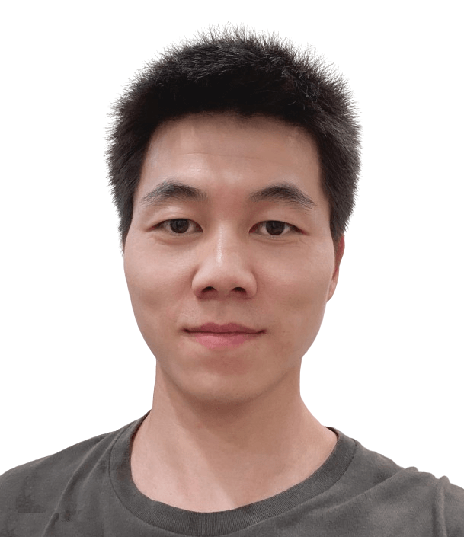
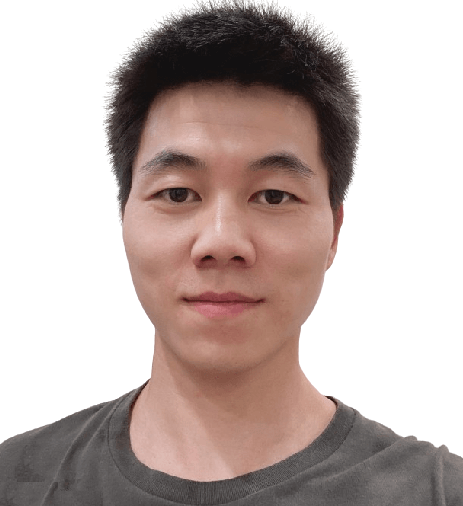
hiring students

diff --git a/index.html b/index.html
@@ -30,21 +30,49 @@
 </header>
 
 
-<div  style="height:200px;">
-<p>
+
+
+
+ <!-- style="height:300px;" -->
+<div style="height:350px;"> 
+<!-- <p> -->
+<img src="chonyang2.png" alt="me"  hspace="40" vspace="0" width="140" align="left">  
+<font size="5">   Chongyang Tao (陶重阳)</font>   <br>
+Pre-tenure Associate Professor <br>
+School of Computer Science and Engineering <br>
+Beihang University <br>
+Email: chongyang@buaa.edu.cn <br>
+<a href="https://scholar.google.com/citations?user=x_cOKuwAAAAJ&hl=en" target="_blank"><u>Google Scholar</u></a> &nbsp/&nbsp
+<!-- <a href="https://github.com//">Github</a> &nbsp/&nbsp -->
+<a href="https://twitter.com/Chongya06192641" target="_blank"><u>Twitter</u></a> 
+<br> <br> <br> 
+
+<table style="border:0.2px solid white;margin-left:35px;margin-right:30px;border-spacing:8px;text-align: justify;">
+  <tr>
+    <td>
+Hi, I am Chongyang Tao, named after being born on Chung-Yeung Festival. Currently, I am a pre-tenure associate professor in the School of Computer Science and Engineering, Beihang University. Previously, I worked as a senior and postdoctoral scientist at <a href="https://www.microsoft.com" target="_blank">Microsoft</a>, respectively. I obtained the Ph.D. degree from <a href="https://www.pku.edu.cn/" target="_blank">Peking University</a> in 2020, and the B. Eng degree from <a href="https://www.scu.edu.cn/" target="_blank">Sichuan University</a> in 2015. 
+My research interests primarily lie in natural language processing and information retrieval, especially in deep learning models with their applications in dialogue systems, text generation, language understanding, and information retrieval. 
+<!-- He has publications at top conferences, including ACL, EMNLP, NAACL, ICLR, NeruIPS, KDD, SIGIR, WSDM, WWW, AAAI, IJCAI. -->
+
+    </td>
+  </tr>
+</table>
+
+
+
+
+<!-- <p>
 <img src="chonyang2.png" alt="me"  hspace="20" vspace="0" width="120" align="left"> 
 Hi, I am Chongyang Tao, named after being born on Chung-Yeung Festival. Currently, I am a pre-tenure associate professor in the School of Computer Science and Engineering, Beihang University. Previously, I worked as a senior and postdoctoral scientist at <a href="https://www.microsoft.com" target="_blank">Microsoft</a>, respectively. I obtained the Ph.D. degree from <a href="https://www.pku.edu.cn/" target="_blank">Peking University</a> in 2020, and the B. Eng degree from <a href="https://www.scu.edu.cn/" target="_blank">Sichuan University</a> in 2015. 
 <br>
 My research interests primarily lie in natural language processing and information retrieval, especially in deep learning models with their applications in dialogue systems, text generation, language understanding, and information retrieval. 
-<!-- He has publications at top conferences, including ACL, EMNLP, NAACL, ICLR, NeruIPS, KDD, SIGIR, WSDM, WWW, AAAI, IJCAI. -->
-</p>
+</p> 
 
 <p style="text-align:right;">
 <a href="mailto:chongyangtao@gmail.com"><u>Email</u></a> &nbsp/&nbsp
 <a href="https://scholar.google.com/citations?user=x_cOKuwAAAAJ&hl=en" target="_blank"><u>Google Scholar</u></a> &nbsp/&nbsp
-<!-- <a href="https://github.com//">Github</a> &nbsp/&nbsp -->
 <a href="https://twitter.com/Chongya06192641" target="_blank"><u>Twitter</u></a> 
-</p>
+</p> -->
 
 </div>
 
@@ -76,7 +104,6 @@ We are looking for highly motivated students to join us as full time students or
 
 
 <li>[Jan.2024]: Present a comprehensive survey on knowledge distillation of LLMs with UMD, UTS and HKU.  <a href="https://github.com/Tebmer/Awesome-Knowledge-Distillation-of-LLMs"target="_blank"> [Github]</a>  
-<br> &nbsp;&nbsp;&nbsp;&nbsp;&nbsp;&nbsp;&nbsp;&nbsp;&nbsp;&nbsp;&nbsp;&nbsp;&nbsp;&nbsp;&nbsp;&nbsp;&nbsp;&nbsp;&nbsp;&nbsp;&nbsp;&nbsp;&nbsp;  
 <a href="https://www.jiqizhixin.com/articles/2024-03-18"target="_blank"> [机器之心]</a> 
 <a href="https://mp.weixin.qq.com/s/JXdWNVy4fr019Y8CWYz2vQ"target="_blank"> [PaperWeekly]</a>   
      <img src="new_card.png" alt="Smiley face" width="30" height="25" style="vertical-align:middle"> 
@@ -111,8 +138,6 @@ We are looking for highly motivated students to join us as full time students or
 <a href="https://github.com/Cyril-JZ/InteR"target="_blank"> [Code]</a>   </li>
 
 <li>[Apr.2023]: Release <a href="https://arxiv.org/abs/2304.12244"target="_blank"><u>WizardLM</u></a> expertized in following complex instructions. <a href="https://github.com/nlpxucan/WizardLM"target="_blank"> [Github]</a> (Over 8K Stars) 
-
-<br> &nbsp;&nbsp;&nbsp;&nbsp;&nbsp;&nbsp;&nbsp;&nbsp;&nbsp;&nbsp;&nbsp;&nbsp;&nbsp;&nbsp;&nbsp;&nbsp;&nbsp;&nbsp;&nbsp;&nbsp;&nbsp;&nbsp;&nbsp; 
 <a href="https://wizardlm.github.io/"target="_blank"> [WizardLM Pages]</a>   
 <a href="https://huggingface.co/WizardLM"target="_blank"> [Huggingface]</a>   
 <a href="https://beebom.com/best-large-language-models-llms/"target="_blank"> [Beeboom: 12 Best LLMs in 2024]</a> 
